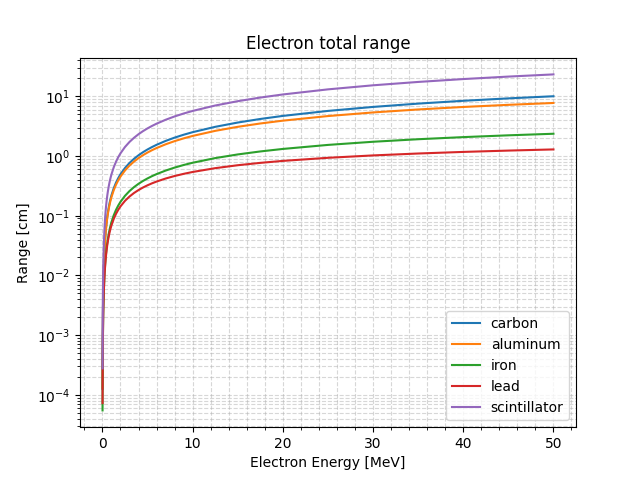
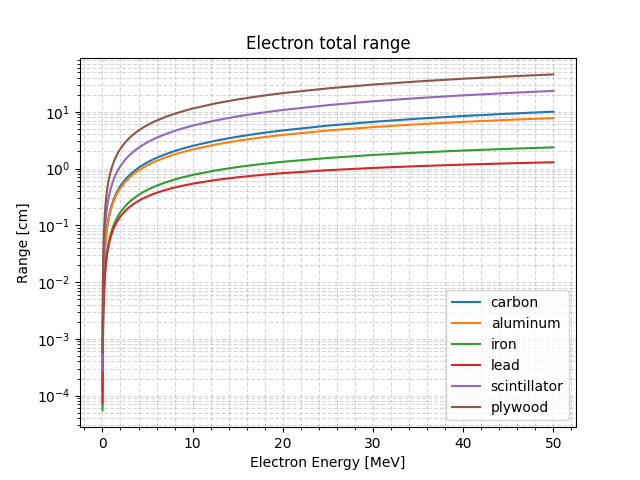
Plywood range

Changed region(s): [[0.0625, 0.125, 0.9062, 0.875]]

diff --git a/data/aluminum/up_down.C b/data/aluminum/up_down.C
@@ -5,7 +5,6 @@ void up_down() {
 
   int nbins_u = 80;
   int nbins_d = 80;
-  int nbins_x = 10;
 
   auto file = new TFile("doublestop.root");
 
@@ -13,8 +12,6 @@ void up_down() {
 
   auto h_up = new TH1D("up_mu", ";#Delta t [#mus]; ", nbins_u, tmin, tmax);
   auto h_down = new TH1D("down_mu", ";#Delta t [#mus]; ", nbins_d, tmin, tmax);
-  auto h_x = new TH1D("asymmetry", ";#Delta t [#mus]; ", nbins_x, tmin, tmax);
-  auto h_tot = new TH1D("total", ";#Delta t [#mus]; ", nbins_x, tmin, tmax);
 
   int channel; Double_t times;
 
@@ -73,12 +70,9 @@ void up_down() {
   cout << "Eventi totali = " << n_up+n_down << endl;
 
   auto c1 = new TCanvas("c1", "c1");
-  h_x->Add(h_up, h_down, 1.0, -1.0);
-  h_tot->Add(h_up, h_down, 1.0, 1.0);
-  h_x->Divide(h_x, h_tot, 1.0, 1.0);
-  //h_up->Draw("E1");
+  h_up->Draw("E1");
   h_x->Draw("E1");
   auto c2 = new TCanvas("c2", "c2");
-  //h_down->Draw("E1");
+  h_down->Draw("E1");
 
 }

diff --git a/instrumentation/energy_loss/electron/stopping_power.py b/instrumentation/energy_loss/electron/stopping_power.py
@@ -6,8 +6,8 @@ dirpath = os.path.dirname(__file__)
 figpath = os.path.join(dirpath, '..', '..', 'figures',
                        'electron_stop_power.png')
 
-label = ['carbon', 'aluminum', 'iron', 'lead', 'scintillator']
-density = np.array([2.267, 2.7, 7.874, 11.340, 0.9 * 0.997])
+label = ['carbon', 'aluminum', 'iron', 'lead', 'scintillator', 'plywood']
+density = np.array([2.267, 2.7, 7.874, 11.340, 0.9 * 0.997, 0.5])
 
 range = np.array([])
 
